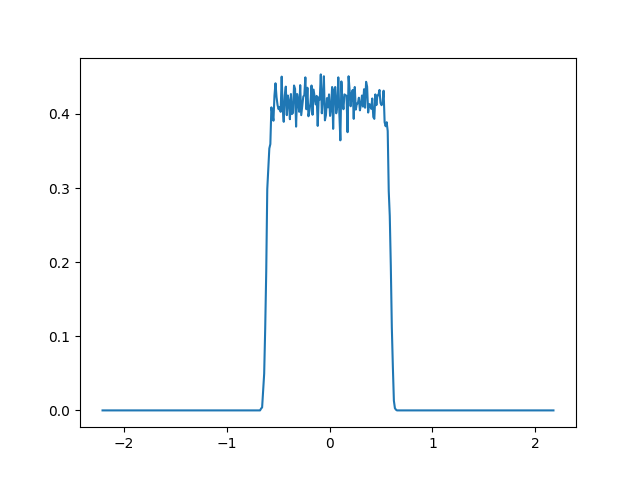
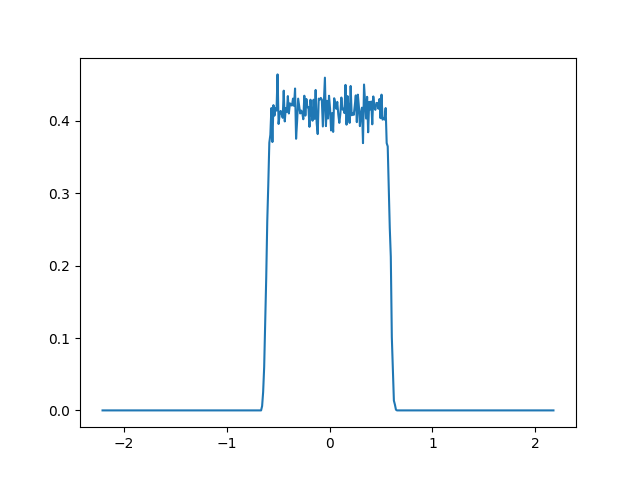
Adding Ranked diffusion densities

diff --git a/Ranked_diffusion_julia/plotting_Burgers_densities.py b/Ranked_diffusion_julia/plotting_Burgers_densities.py
@@ -1,0 +1,90 @@
+#%%
+import numpy as np
+import matplotlib.pyplot as plt
+from scipy import special
+# Some plotting functions
+def robovi_v_sredine(robovi, rob):
+    width = robovi[1]-robovi[0]
+    if rob == 1:
+        return np.arange(robovi[0]-0.5*width, robovi[-1]+0.5*width+width, width)
+    else:
+        return np.arange(robovi[0]-0.5*width, robovi[-1]+0.5*width, width)
+
+def normalise(funkcija, iksi):
+    vsota = np.trapz(funkcija, iksi)
+    return np.divide(funkcija, vsota)
+
+
+def odv_x(funkcija, iksi):
+    odv=[]
+    for i in range(len(odv_x)):
+        odv.append()
+def f_delta(x, gamma, t, T):
+    return  0.5*np.exp((1/(4*T))*gamma*(gamma*t - 2*x)) * special.erfc((gamma*t - x)/(2 * np.sqrt(T*t)))
+
+def g_delta(x, gamma, t, T):
+    prvi = np.exp((1/(4*T)) * gamma * (gamma*t - 2*x))
+    #print(prvi)
+    drugi = np.exp(-((gamma*t - x)/(2*np.sqrt(T*t)))**2)
+    #rint(drugi)
+    return prvi* drugi
+
+def r_delta2(x, gamma, t, T):
+    return -(T/gamma) * ((1/(f_delta(x, gamma, t, T) + f_delta(-x, gamma, t, T))) *
+        ((gamma/(2*T)) * (f_delta(-x, gamma, t, T) - f_delta(x, gamma, t, T)) +
+         (1/(2*np.sqrt(np.pi)*np.sqrt(T*t))) * (g_delta(x, gamma, t, T) - g_delta(-x, gamma, t, T))))
+
+def rho(x, gamma, t, T):
+    st1 = (np.exp((gamma*x)/T)*special.erfc((gamma*t+x)/(2*np.sqrt(t*T)))) / (np.sqrt(t*T))
+    st2 = special.erfc((gamma*t-x)/(2*np.sqrt(t*T)))*(1/np.sqrt(t*T))
+    st3 = -(1/T)*special.erfc((gamma*t-x)/(2*np.sqrt(t*T))) * np.sqrt(np.pi)*gamma*np.exp((gamma*t+x)**2/(4*t*T))*special.erfc((gamma*t+x)/(2*np.sqrt(t*T)))
+    st_cel = np.exp(-(x-gamma*t)**2/(4*t*T))*(st1 + st2 + st3)
+    im = np.sqrt(np.pi)* ( special.erfc((gamma*t-x)/(2*np.sqrt(t*T))) + np.exp(gamma*x/T)*special.erfc((gamma*t+x)/(2*np.sqrt(t*T))) )**2
+    return st_cel/im
+
+#FF_dt_10 = np.load('/home/ana/Dropbox/Ranked_diffusion/Density_burg_fire_0.01_t_10_N_100avrg_1000.npz')#
+FF_dt_10 = np.load('../Data/Density_delta_N100_c0.01_t10_avrg1000_l0.npz')#
+FF_dt_100 = np.load('../Data/Density_delta_N100_c0.01_t100_avrg1000_l0.npz')#
+FF_dt_200 = np.load('../Data/Density_delta_N100_c0.01_t200_avrg1000_l0.npz')#
+
+FF_dt_10_N500 = np.load('../Data/Density_delta_N500_c0.002_t10_avrg1000_l0.npz')
+FF_dt_100_N500 = np.load('../Data/Density_delta_N500_c0.002_t100_avrg1000_l0.npz')
+FF_dt_200_N500 = np.load('../Data/Density_delta_N500_c0.002_t200_avrg1000_l0.npz')
+
+# PLOT DENSITY _ BURGERS
+bini = robovi_v_sredine(np.linspace(-40, 40, 100-1), 0)
+bini_100 = robovi_v_sredine(np.linspace(-2.5*100, 2.5*100, 100-1), 1)
+bini_200 = robovi_v_sredine(np.linspace(-300, 300, 100-1), 0)
+
+
+fig, (ax1, ax2, ax3) = plt.subplots(1, 3)
+
+ax1.plot(bini, normalise(FF_dt_10, bini), '^',markersize=10,color='limegreen', label='$N=100 $')
+ax1.plot(bini, normalise(FF_dt_10_N500, bini),'x', markersize=8, color='blue', label='$N=500 $')
+iks=np.linspace(-60, 60, 1000)
+ax1.plot(iks, [rho(ik, 1, 10, 1) for ik in iks], linewidth=2, color='black')
+ax1.legend(fontsize=14)
+ax1.tick_params(axis='both', which='major', labelsize=15)
+ax1.set_xlim(-40, 40)
+
+ax2.plot(bini_100, normalise(FF_dt_100, bini_100),'^',markersize=10, color='limegreen', label='$N=100 $')
+ax2.plot(bini_100, normalise(FF_dt_100_N500, bini_100),'x', markersize=8, color='blue', label='$N=500 $')
+iks=np.linspace(-200, 200, 1000)
+ax2.plot(iks, [rho(ik, 1, 100, 1) for ik in iks], linewidth=2, color='black')
+ax2.legend(fontsize=14)
+ax2.tick_params(axis='both', which='major', labelsize=15)
+
+ax3.plot(bini_200, normalise(FF_dt_200, bini_200),'^',markersize=10, color='limegreen', label='$N=100 $')
+ax3.plot(bini_200, normalise(FF_dt_200_N500, bini_200),'x',markersize=8, color='blue', label='$N=500 $')
+iks=np.linspace(-350, 350, 1000)
+ax3.plot(iks, [rho(ik, 1, 200, 1) for ik in iks], linewidth=2, color='black')
+ax3.legend(fontsize=14)
+ax3.tick_params(axis='both', which='major', labelsize=15)
+
+#ax1.legend(loc='lower left')
+plt.subplots_adjust(wspace=0.3)
+figure = plt.gcf()  # get current figure
+figure.set_size_inches(22, 6) # set figure's size manually to your full screen (32x18)
+
+plt.savefig('../Figures/Burgers_densities.jpg')#,bbox_inches='tight'
+# %%
